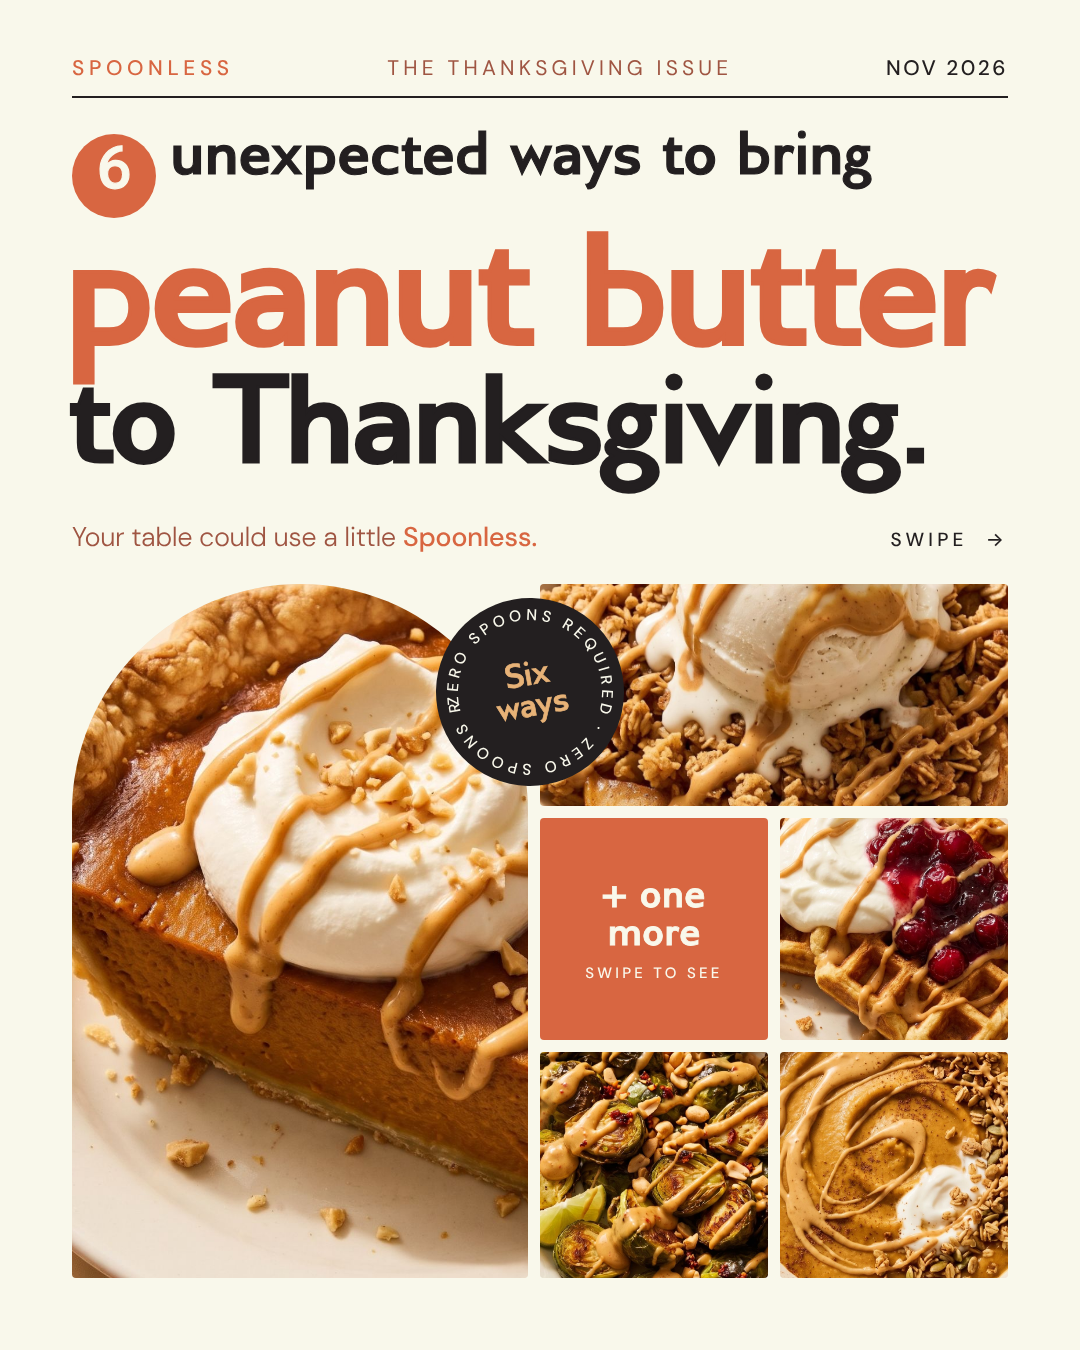
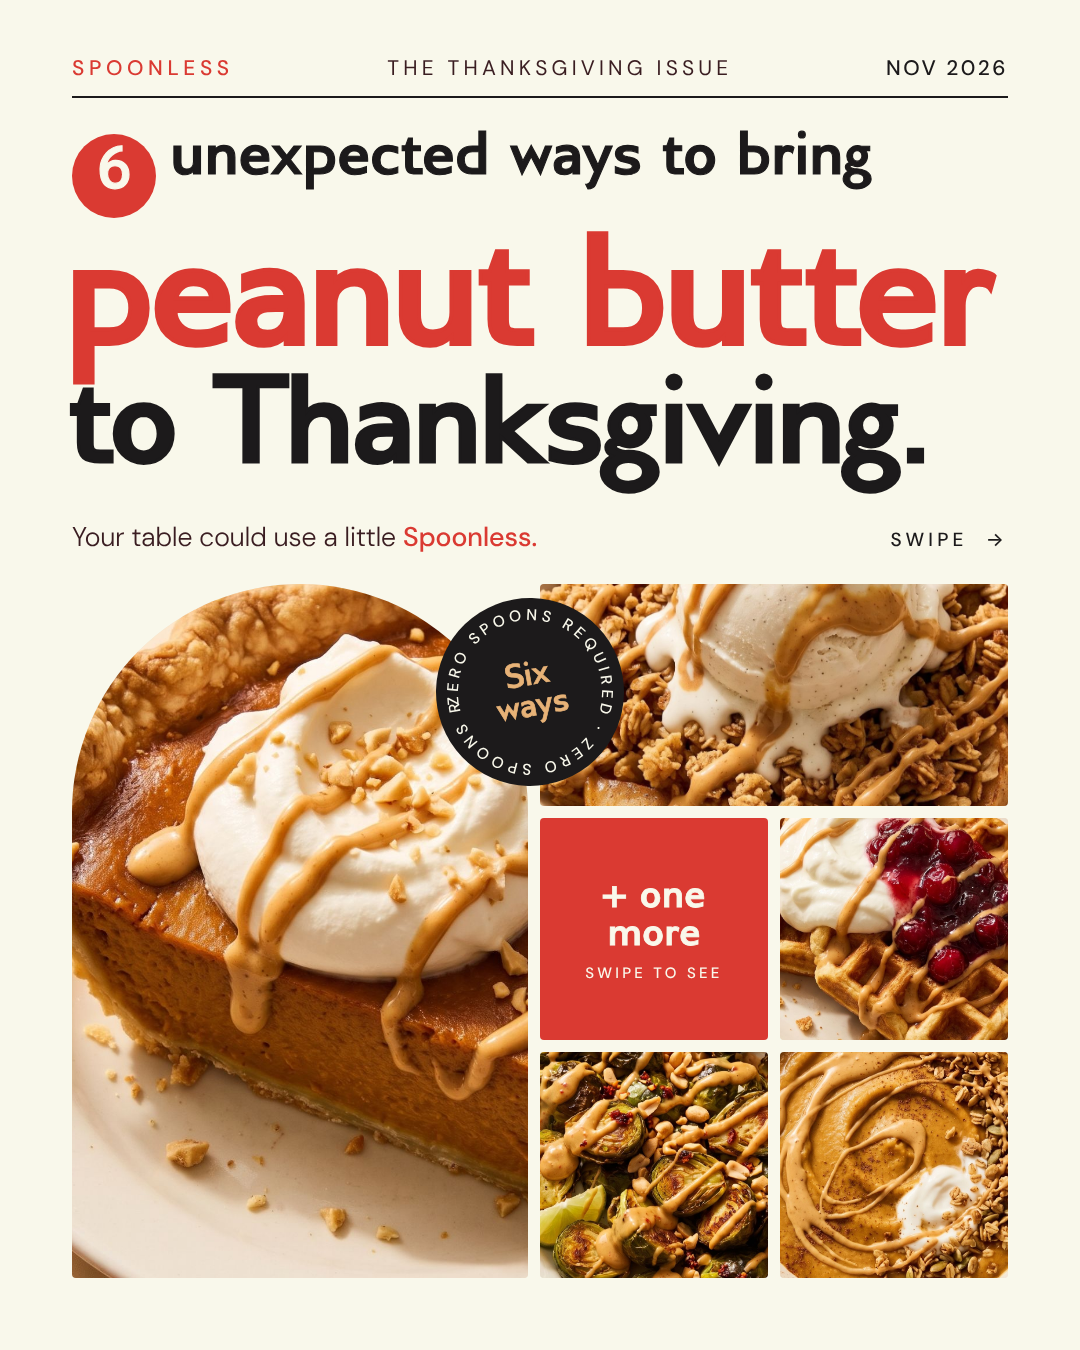
Carousel: switch to brand red and oxblood brown from guideline swatches
Claude-Session: https://claude.ai/code/session_012235NtBJY9XxcAvQ8ULPkv

diff --git a/social/thanksgiving-carousel/export.js b/social/thanksgiving-carousel/export.js
@@ -19,9 +19,9 @@ const names = ['01-cover', '02-brussels-sprouts', '03-japanese-sweet-potatoes', 
   const imgs = names.map(n => 'export/' + n + '.png');
   const sheet = await browser.newPage({ viewport: { width: 2400, height: 1400 }, deviceScaleFactor: 1 });
   await sheet.setContent(`<!doctype html><html><head><link rel="stylesheet" href="fonts/fonts.css"><style>@font-face{font-family:'Spoonless Display';src:url(fonts/GilliusADF-Bold.otf)}
-    body{margin:0;background:#ECE7D6;font-family:'DM Sans';color:#231F20;padding:64px 72px 72px;width:2256px}
-    header{display:flex;justify-content:space-between;align-items:baseline;border-bottom:2px solid #231F20;padding-bottom:18px;margin-bottom:40px}
-    h1{font:700 56px 'Spoonless Display';margin:0;-webkit-text-stroke:1px currentColor} h1 em{color:#D86641}
+    body{margin:0;background:#ECE7D6;font-family:'DM Sans';color:#1C1A1B;padding:64px 72px 72px;width:2256px}
+    header{display:flex;justify-content:space-between;align-items:baseline;border-bottom:2px solid #1C1A1B;padding-bottom:18px;margin-bottom:40px}
+    h1{font:700 56px 'Spoonless Display';margin:0;-webkit-text-stroke:1px currentColor} h1 em{color:#DA3A32}
     header span{font:500 18px 'DM Sans';letter-spacing:.22em;text-transform:uppercase}
     .row{display:grid;grid-template-columns:repeat(4,1fr);gap:36px}
     figure{margin:0} img{width:100%;display:block;box-shadow:0 12px 30px rgba(35,31,32,.16)}

diff --git a/social/thanksgiving-carousel/carousel.html b/social/thanksgiving-carousel/carousel.html
@@ -24,12 +24,12 @@
   :root{
     /* Spoonless brand palette (guidelines §03) */
     --cream:#F9F8EB;      /* Cream  */
-    --terra:#D86641;      /* Orange — primary */
-    --esp:#231F20;        /* Black  */
-    --walnut:#9F5542;     /* Brown  */
+    --terra:#DA3A32;      /* Red — primary (as shown in guidelines swatch) */
+    --esp:#1C1A1B;        /* Black  */
+    --walnut:#3A1D21;     /* Brown — deep oxblood (as shown in guidelines swatch) */
     /* photo-derived supporting tints */
     --cream-2:#F1E9D6;
-    --terra-deep:#B44E2E;
+    --terra-deep:#B02A24;
     --butter:#E7B277;
     --cran:#8E1B2C;
     --serif:'Spoonless Display','Gill Sans','Gill Sans MT',sans-serif;
@@ -124,7 +124,7 @@
   .s4 .tag .sup{margin-top:10px;font-size:26px;color:var(--walnut)}
 
   /* ======================= 05 APPLE CRISP (espresso, inset) ======================= */
-  .s5{background:var(--esp);color:var(--cream)}
+  .s5{background:var(--walnut);color:var(--cream)}
   .s5 .meta{top:58px}
   .s5 .meta .wm{color:var(--butter)}
   .s5 .h{position:absolute;left:var(--m);top:122px;font-size:118px;color:var(--cream)}

diff --git a/social/thanksgiving-carousel/README.md b/social/thanksgiving-carousel/README.md
@@ -18,7 +18,8 @@ Save the Japanese sweet potato photo as `img/sweet-potato.jpg` and run `node exp
 Slide 03 fills its arch frame, and the cover's orange "+ one more" tile turns into the photo automatically.
 
 ## Design system
-- Palette (brand guidelines §03): Cream #F9F8EB · Orange #D86641 · Black #231F20 · Brown #9F5542.
+- Palette (brand guidelines §03, matched to the swatches as shown): Cream #F9F8EB · Red #DA3A32 · Black #1C1A1B · Brown (oxblood) #3A1D21.
+  Note: the hex codes printed in the guidelines (#D86641 orange, #9F5542 brown) don't match their swatches. To use the printed values instead, edit `--terra` / `--walnut` in `:root`.
   Photo-derived accents: butter #E7B277 (drizzle) and cranberry #8E1B2C (slide 06 sticker only).
 - Display type: the brand typeface in the guidelines is a humanist Gill-style sans (the doc labels it "Roca", but it isn't).
   The closest open-licence match is **Gillius ADF Bold**, with a hairline stroke added to reach the heavier weight in the doc.
